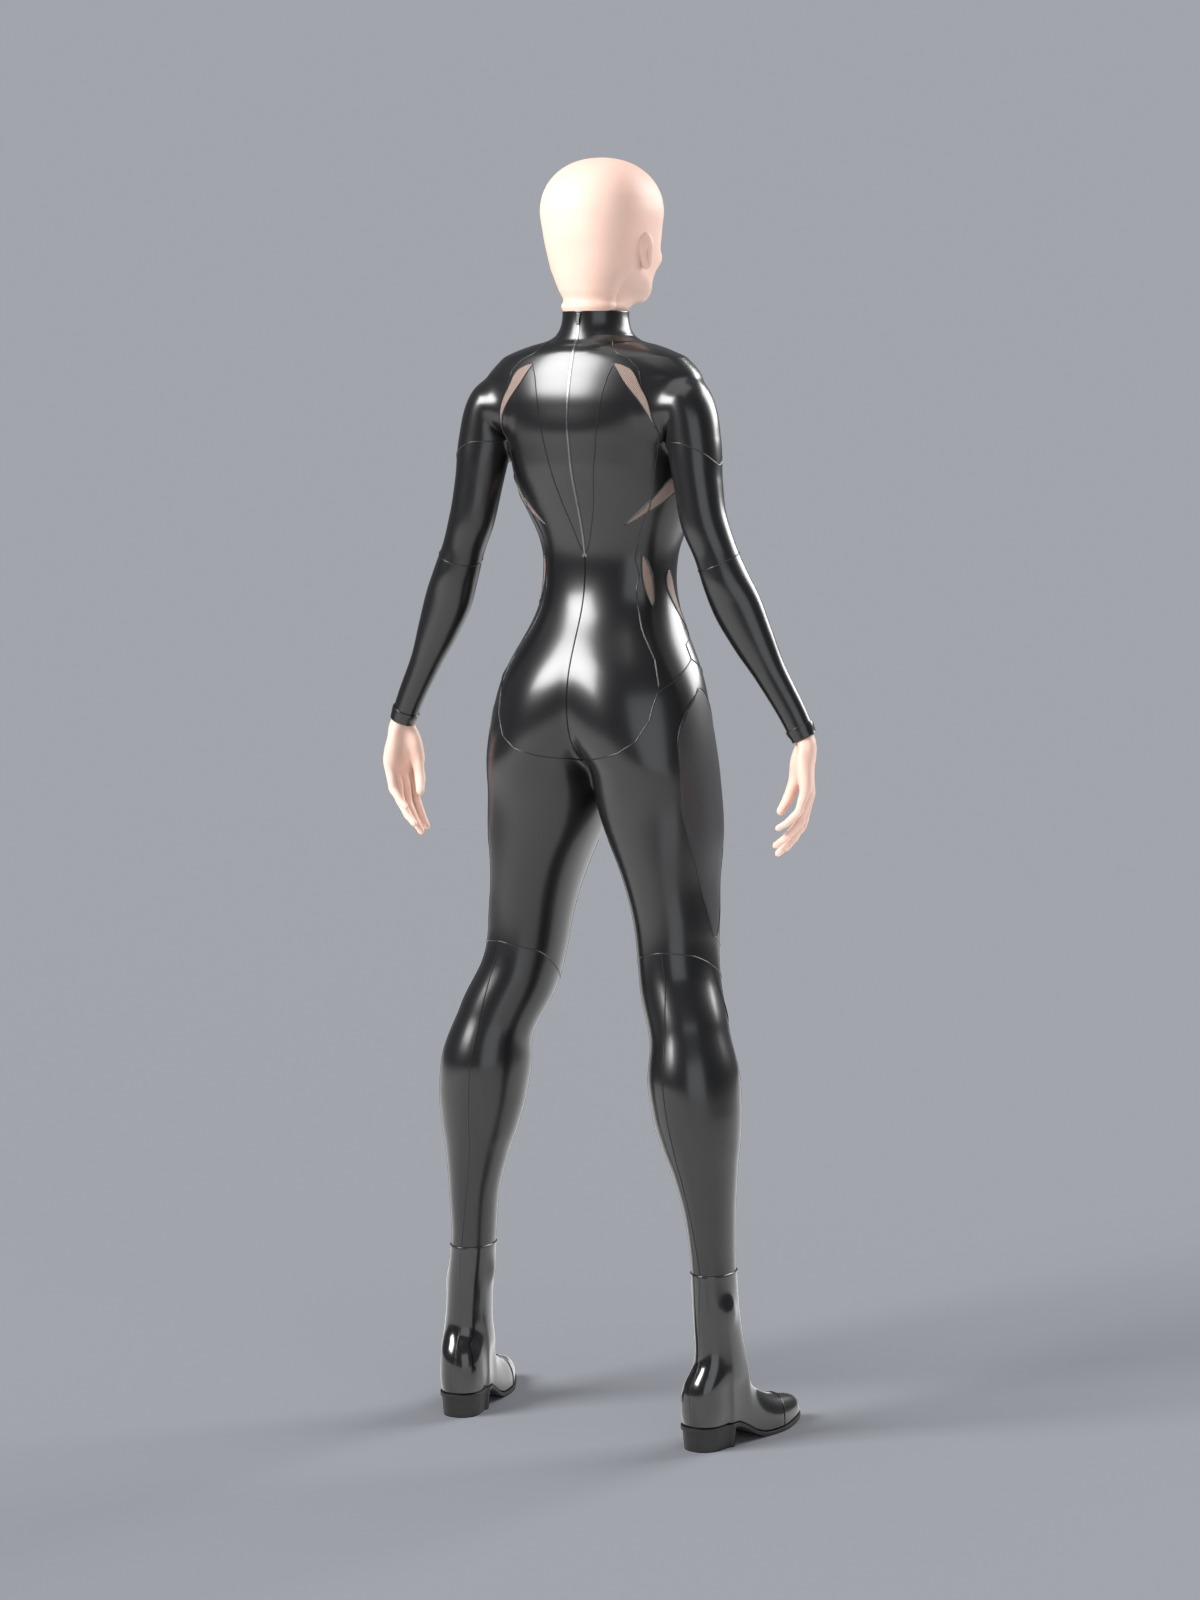
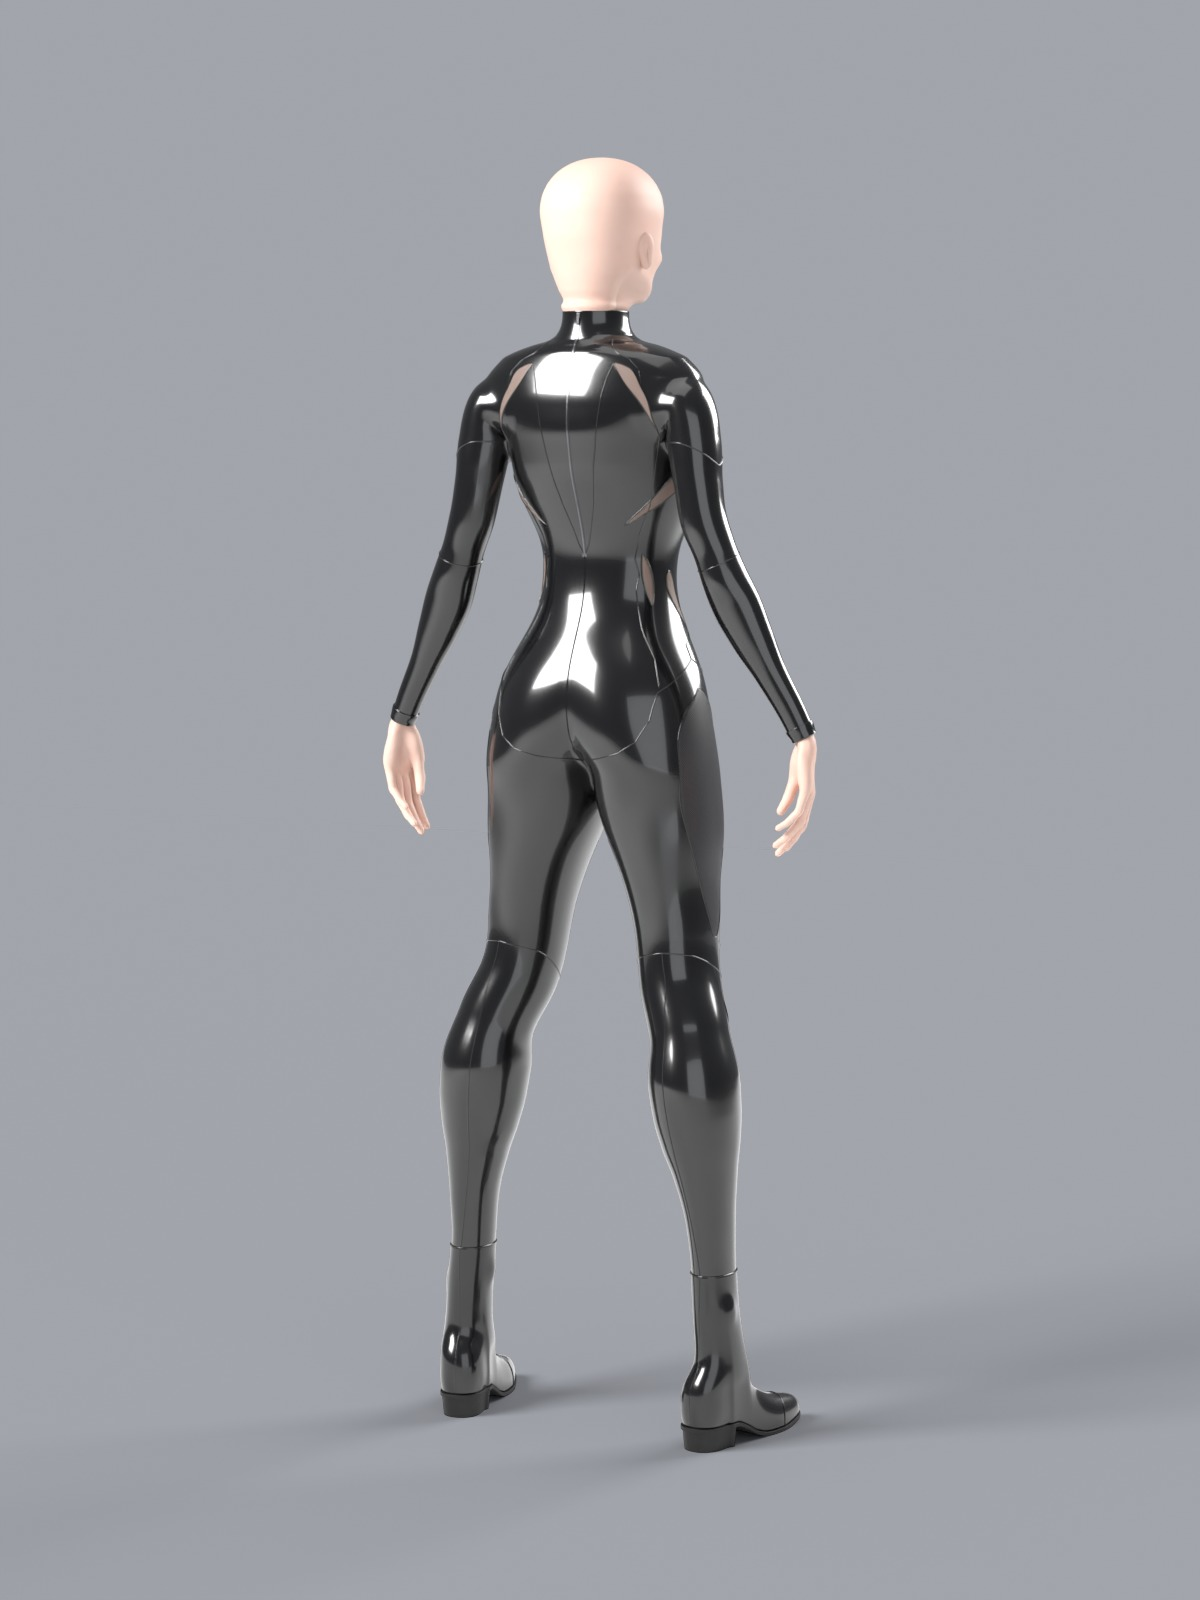
art(#33): Beatrice B1m step 1 -- the wet gloss is the default (the owner's choice): GLOSS takes B1l's "wet" values, B1b-B1l's satin kept as VARIANTS["satin"]; the full picture set regenerated (sheet, turnaround, every beauty and dev view); mesh_stats.json unchanged

diff --git a/art/characters/Beatrice/scripts/beatrice.py b/art/characters/Beatrice/scripts/beatrice.py
@@ -49,7 +49,8 @@ PALETTE = dict(
     PAD="#141418",           # the knee pads: the suit's black, a hair lifted
     PAD_RIM="#6c6c76",       # their piped rim, bright
 )
-GLOSS = dict(rough=0.30, coat=0.45, coat_rough=0.20, specular=0.45, piping=0.9,
+# B1m (the owner, 2026-10-19: "going very glossy is fine"): B1l's "wet" look is the default; B1b-B1l's satin is VARIANTS["satin"]
+GLOSS = dict(rough=0.20, coat=0.85, coat_rough=0.07, specular=0.55, piping=0.9,
              nail_rough=0.20, nail_coat=0.55, nail_coat_rough=0.07,   # B1j: the nails glossier than the skin (0.48-0.60)
              # B1j: the pads glossier than the boots (coat 1.0, specular 0.8); B1l: the coat 0.6 and specular 0.5 (with the domed
              # shape: at 1.0 / 0.8 the whole face threw back the backdrop's grey as one even sheet -- the porthole -- whatever its shape)
@@ -62,10 +63,12 @@ GLOSS = dict(rough=0.30, coat=0.45, coat_rough=0.20, specular=0.45, piping=0.9,
 
 VARIANTS = dict(
     crimson=dict(palette=dict(SUIT="#4a0b12", BOOT="#1a0a0c", MESH="#22090c", MESH_THIGH="#3a161a", SKIN="#a8775e", BROW="#2a1c16", IRIS="#4a3626")),
-    # B1l (review_stage10 item 3, a look for the owner to choose; NOT the default): "wet" -- the suit as glossy as the patent
-    # boots (review 10 measured the default as satin beside the drawing's wet latex: the brightest torso highlights about
-    # half the drawing's). The first review called B1a's gloss chrome-like and B1b softened it to the default above
+    # B1l (review_stage10 item 3): "wet" -- the suit as glossy as the patent boots (review 10 measured B1l's satin default
+    # beside the drawing's wet latex: the brightest torso highlights about half the drawing's). B1m: the owner chose it, so it
+    # is GLOSS itself now; the name stays (it rebuilds the default) so B1l's commands still run
     wet=dict(gloss=dict(rough=0.20, coat=0.85, coat_rough=0.07, specular=0.55)),
+    # B1m: B1b-B1l's default, kept to be rebuilt (the first review called B1a's gloss chrome-like; B1b softened it to this)
+    satin=dict(gloss=dict(rough=0.30, coat=0.45, coat_rough=0.20, specular=0.45)),
 )
 
 # ------------------------------------------------------------------- dimensions

diff --git a/art/characters/Beatrice/PROVENANCE.md b/art/characters/Beatrice/PROVENANCE.md
@@ -679,3 +679,15 @@ was rebuilt. B1k's tables kept where they changed (`RAGLAN_BACK_B1K`, `DELTOID_S
   (`sh.py` suit, `kh.py` knee pads, `hh.py` hands, `ch.py` collar, `zb.py` gloss / reflection lines / object colours, `wet.py`,
   `cmp3.py`, `cmp4.py`, `gaps.py`, `compose_b1l.py`; probes `cliff.py`, `fademap.py`, `nrm2.py`, `tjump.py`). Not re-rendered:
   `shape_vs_concept.jpg`, the `--hips` pictures, `crimson_hero.jpg`.
+
+## B1m: the body accepted -- wet gloss and the concept pose (2026-10-19, the owner's words of 2026-10-19)
+
+The owner: "going very glossy is fine"; the hips "look pretty cool for me now, but it's really hard to tell from these poses";
+before finalising, a model in the concept's pose. The body's GEOMETRY does not change in this round.
+
+- **Step 1, the wet gloss is the default.** `GLOSS` takes B1l's `"wet"` values (rough 0.20, coat 0.85, coat_rough 0.07,
+  specular 0.55); B1b-B1l's default is `VARIANTS["satin"]` (0.30 / 0.45 / 0.20 / 0.45), rebuilt with `--variant satin`;
+  `"wet"` stays as a name (it now rebuilds the default) so B1l's commands still run. The boots, pads and nails keep their own
+  values. The full picture set regenerated (`--sheet --turn --save --beauty` with every beauty and dev view, B1l's command:
+  9.8 min, the build 5.8 min). `source/mesh_stats.json` unchanged (byte for byte); `sheet_scores.json` moves in the fifth decimal
+  (the glossier edges' alpha). The studio rig is unchanged.
